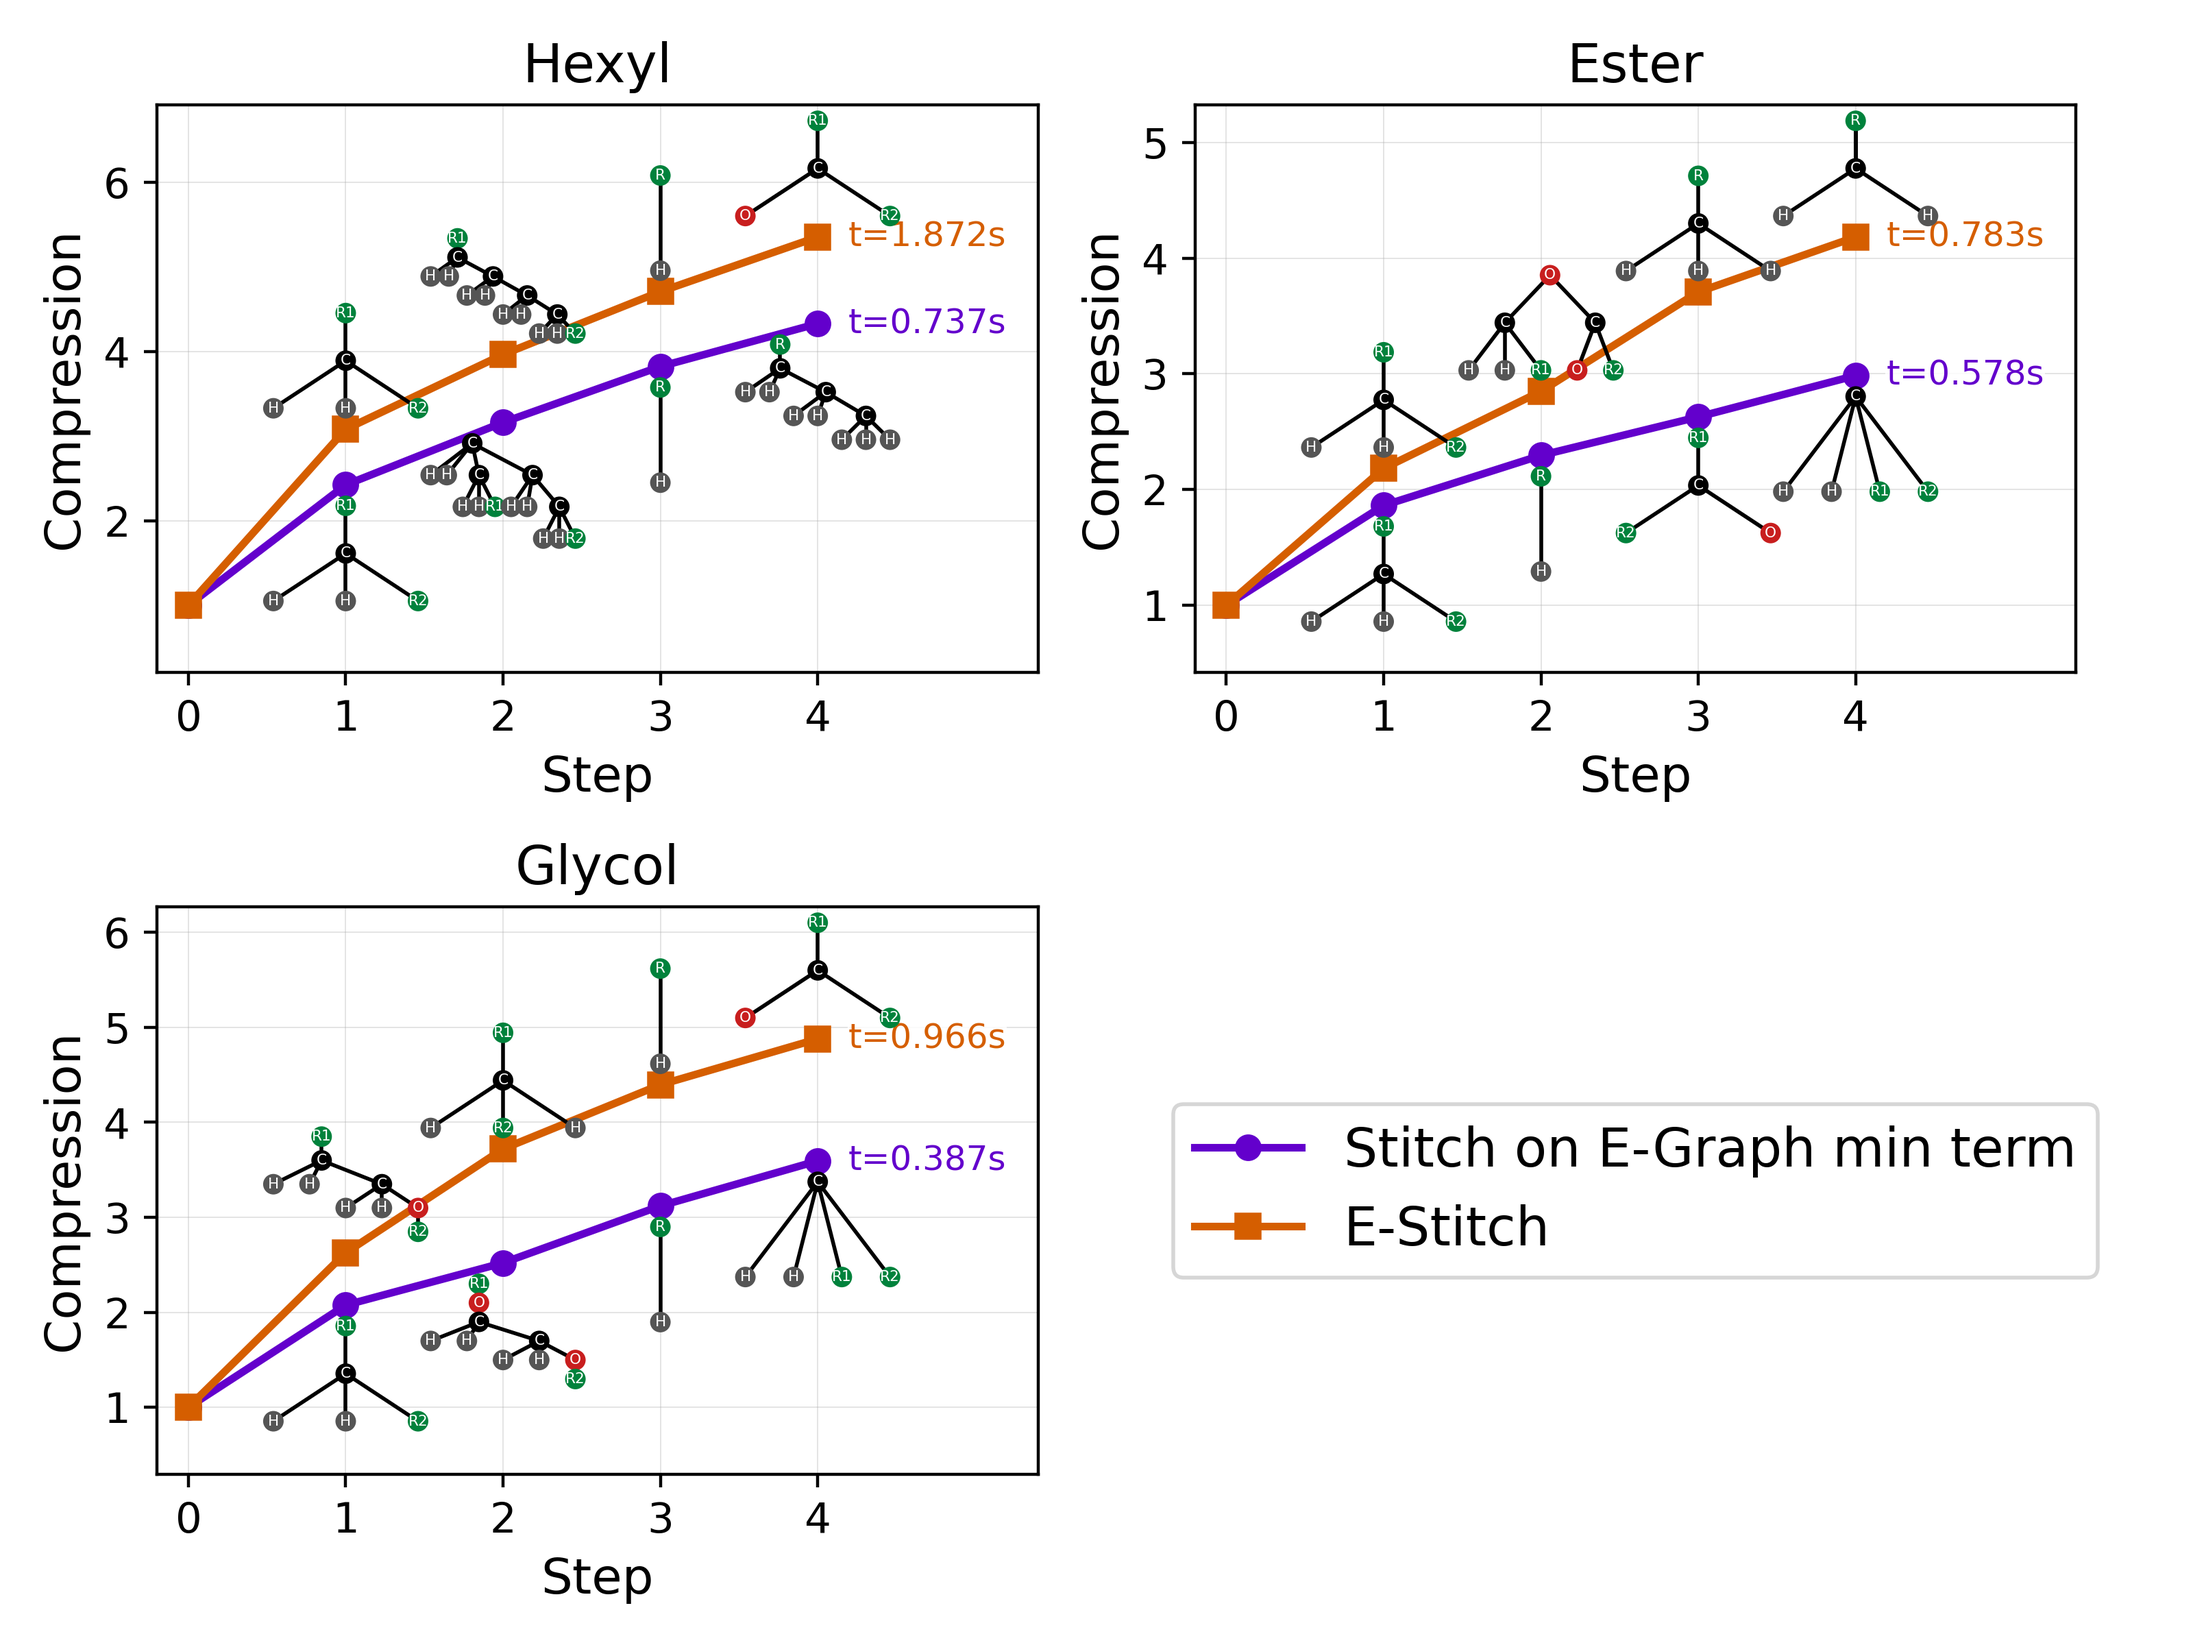
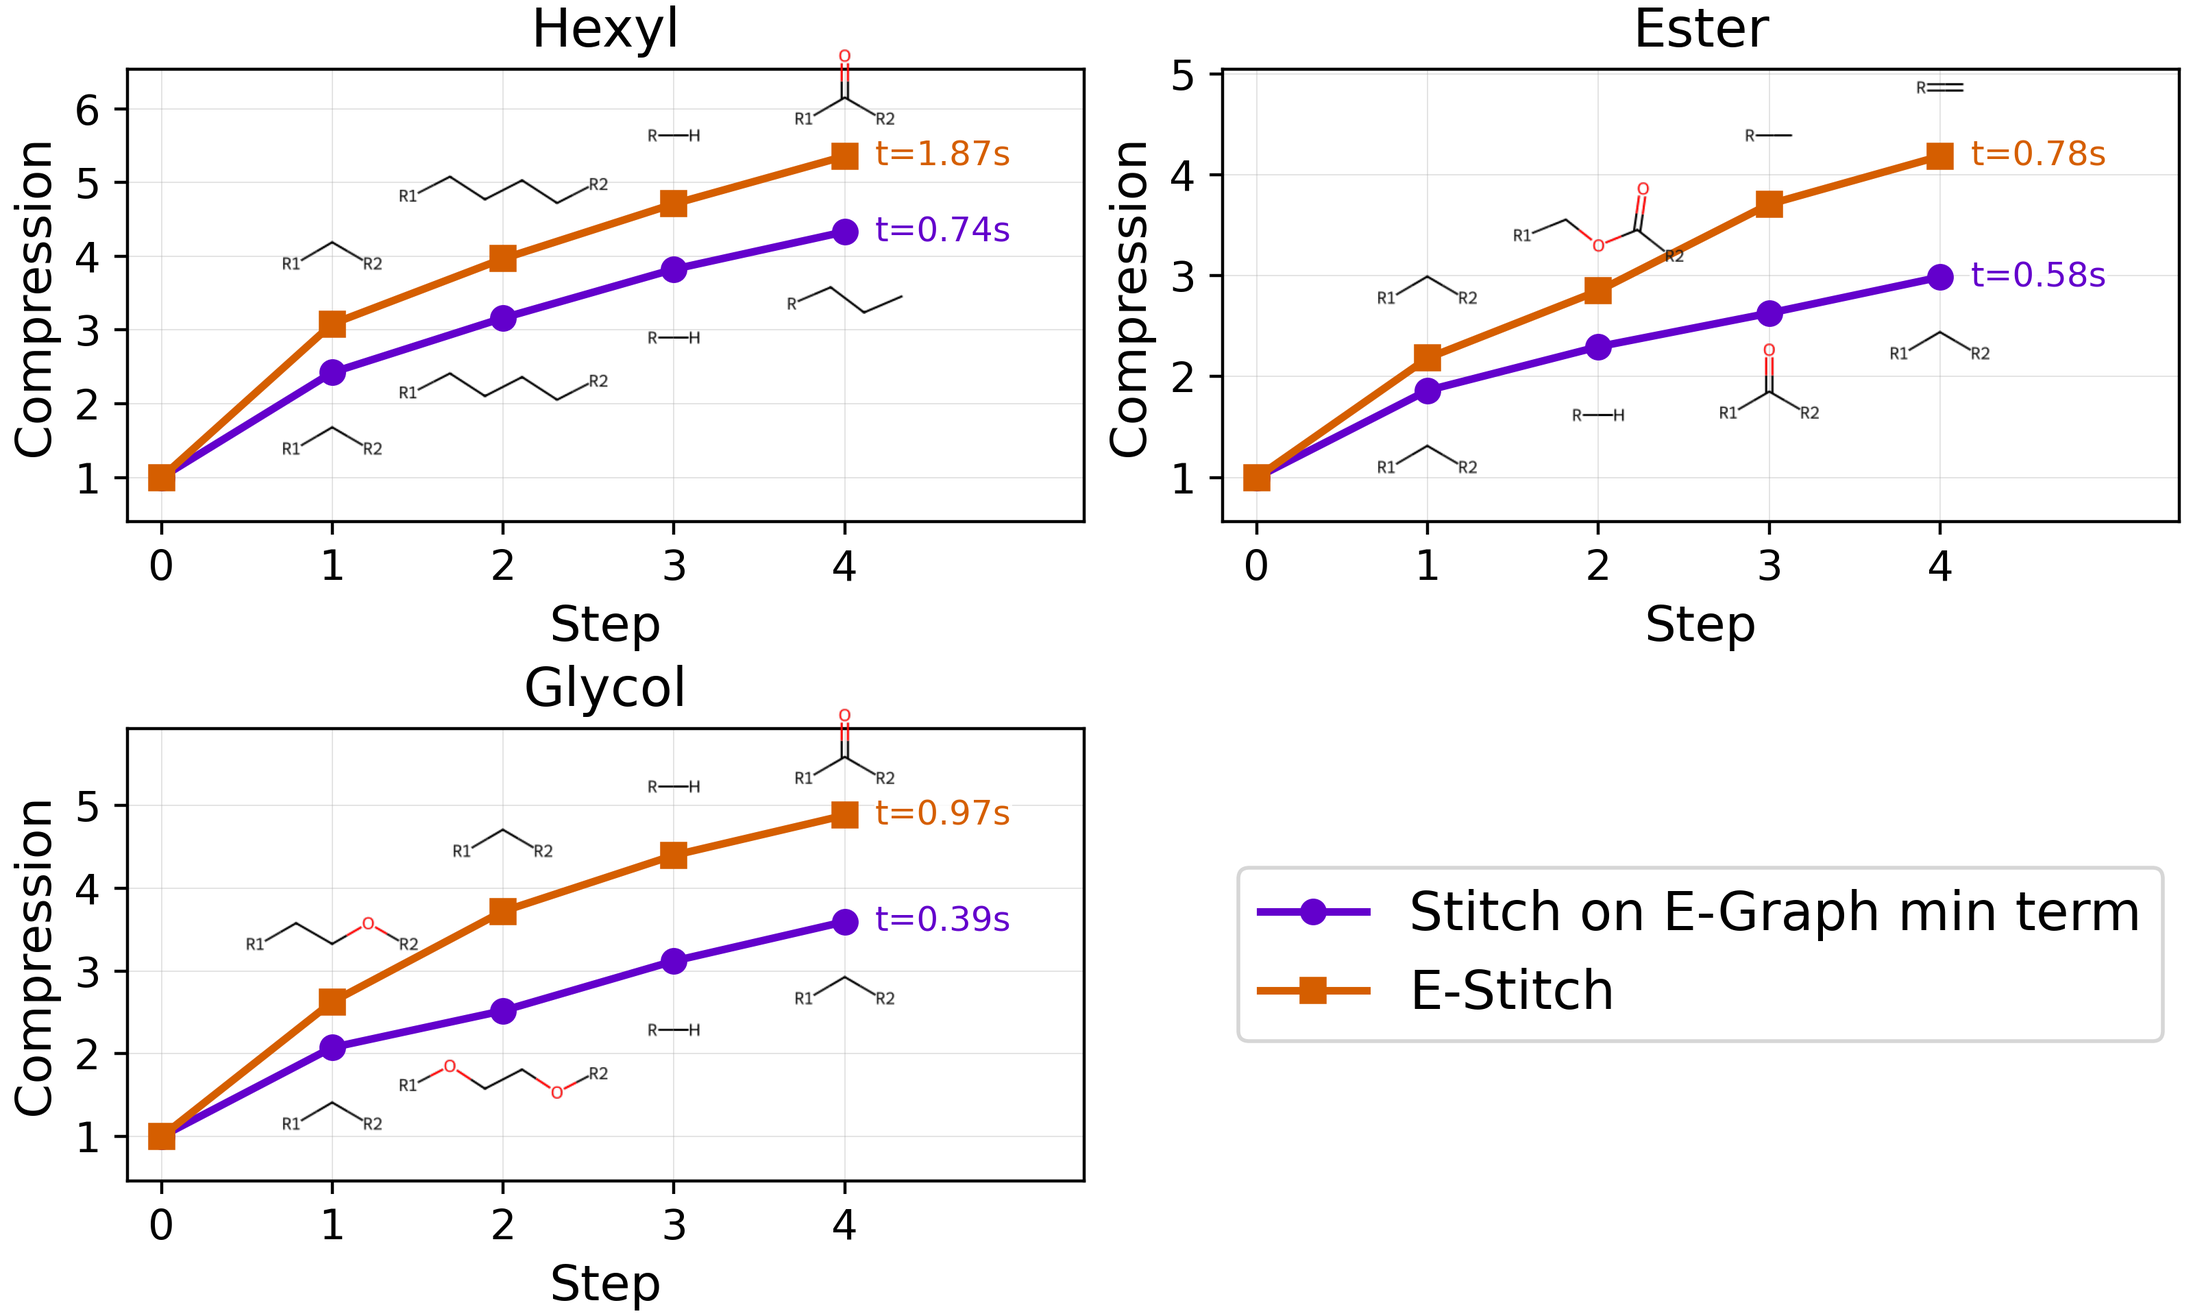
Render molecule diagrams with RDKit skeletal structures
Replace the ad-hoc colored-circle tree in render_molecules.py with real
skeletal chemical structures built via RDKit: each expression node becomes an
atom (R* -> dummy attachment points), d-headed edges become double bonds, and
the molecule is drawn with rdMolDraw2D at a fixed bond length, autocropped, and
placed as an OffsetImage. Carbonyls now show a red O with a C=O double bond,
ethers show O in-chain, and alkyl chains render as clean zig-zag skeletons.

Also tidy the figure: shorter height with tighter row spacing, integer
compression y-ticks, and 2-decimal time callouts.

diff --git a/scripts/render_molecules.py b/scripts/render_molecules.py
@@ -22,7 +22,6 @@ from __future__ import annotations
 
 import argparse
 import json
-import math
 import re
 import sys
 from dataclasses import dataclass
@@ -66,14 +65,10 @@ TICK_FONTSIZE = 11
 LEGEND_FONTSIZE = 14
 TIME_FONTSIZE = 9
 
-ATOM_COLORS = {
-    "C": "#000000",
-    "H": "#555555",
-    "O": "#c81e1e",
-    "R": "#00823c",
-    "R1": "#00823c",
-    "R2": "#00823c",
-}
+# RDKit depiction: keep bond length constant (in px) across molecules so every
+# diagram renders at the same scale, then autocrop and place at a single zoom.
+BOND_LENGTH_PX = 26
+DIAGRAM_ZOOM = 0.28
 
 
 @dataclass(frozen=True)
@@ -201,162 +196,83 @@ def with_implicit_root(node: ExprNode) -> ExprNode:
     return ExprNode(head="m1", label="R", children=(node,))
 
 
-def layout_tree(
-    node: ExprNode,
-) -> tuple[dict[int, tuple[float, float]], dict[int, tuple[int, int]], list[int]]:
-    """Lay out a rooted tree using leaf order on x and depth on y."""
-    positions: dict[int, tuple[float, float]] = {}
-    edges: dict[int, tuple[int, int]] = {}
-    order: list[int] = []
-    leaf_x = 0
+def build_rdkit_mol(node: ExprNode):
+    """Build an RDKit molecule from a parsed expression tree.
 
-    def walk(current: ExprNode, depth: int, parent: ExprNode | None) -> float:
-        nonlocal leaf_x
-        node_id = id(current)
-        order.append(node_id)
-        if not current.children:
-            x = float(leaf_x)
-            leaf_x += 1
+    Each ``ExprNode`` becomes an atom (``R*`` labels become dummy attachment
+    atoms), and the parent link becomes a single or double bond according to the
+    child head (``d`` = double). Explicit ``H`` atoms are added so valences are
+    complete; the depiction later collapses them into the skeletal drawing.
+    """
+    from rdkit import Chem
+
+    mol = Chem.RWMol()
+
+    def add(current: ExprNode, parent_idx: int | None, order: int) -> int:
+        label = current.label
+        if label.startswith("R"):
+            atom = Chem.Atom(0)  # dummy attachment point
+            atom.SetProp("atomLabel", label)
+        elif label == "H":
+            atom = Chem.Atom(1)
+            atom.SetNoImplicit(True)
         else:
-            xs = [walk(child, depth + 1, current) for child in current.children]
-            x = sum(xs) / len(xs)
-        positions[node_id] = (x, -float(depth))
-        if parent is not None:
-            edges[node_id] = (id(parent), bond_order(current.head))
-        return x
+            atom = Chem.Atom(label)
+        idx = mol.AddAtom(atom)
+        if parent_idx is not None:
+            bond = Chem.BondType.DOUBLE if order == 2 else Chem.BondType.SINGLE
+            mol.AddBond(parent_idx, idx, bond)
+        for child in current.children:
+            add(child, idx, bond_order(child.head))
+        return idx
 
-    walk(node, 0, None)
-    return positions, edges, order
-
-
-def normalize_positions(
-    positions: dict[int, tuple[float, float]],
-) -> dict[int, tuple[float, float]]:
-    """Scale a layout into the unit box."""
-    xs = [p[0] for p in positions.values()]
-    ys = [p[1] for p in positions.values()]
-    min_x, max_x = min(xs), max(xs)
-    min_y, max_y = min(ys), max(ys)
-    x_span = max_x - min_x
-    y_span = max_y - min_y
-
-    def place_within(value: float, min_val: float, span: float) -> float:
-        # A vertical/linear fragment collapses to a single column or row.
-        if span == 0:
-            return 0.5
-        return (value - min_val) / span
-
-    return {
-        node_id: (
-            place_within(x, min_x, x_span),
-            place_within(y, min_y, y_span),
-        )
-        for node_id, (x, y) in positions.items()
-    }
+    add(node, None, 1)
+    return mol
 
 
-def add_bond_segments(
-    drawer, p1: tuple[float, float], p2: tuple[float, float], order: int
-) -> None:
-    """Draw one, two, or three parallel bond segments."""
-    from matplotlib.lines import Line2D
-
-    x1, y1 = p1
-    x2, y2 = p2
-    dx = x2 - x1
-    dy = y2 - y1
-    length = math.hypot(dx, dy) or 1.0
-    px = -dy / length
-    py = dx / length
-    offsets = {1: [0.0], 2: [-0.06, 0.06]}[order]
-    for offset in offsets:
-        drawer.add_artist(
-            Line2D(
-                [x1 + px * offset, x2 + px * offset],
-                [y1 + py * offset, y2 + py * offset],
-                color="black",
-                linewidth=1.0 if order == 1 else 0.9,
-                solid_capstyle="round",
-            )
-        )
+def autocrop(image: np.ndarray, margin: int = 2) -> np.ndarray:
+    """Trim fully-transparent borders from an RGBA image, keeping a small margin."""
+    opaque = np.where(image[:, :, 3] > 0)
+    if opaque[0].size == 0:
+        return image
+    y0, y1 = opaque[0].min(), opaque[0].max()
+    x0, x1 = opaque[1].min(), opaque[1].max()
+    h, w = image.shape[:2]
+    y0, x0 = max(y0 - margin, 0), max(x0 - margin, 0)
+    y1, x1 = min(y1 + margin, h - 1), min(x1 + margin, w - 1)
+    return image[y0 : y1 + 1, x0 : x1 + 1]
 
 
 def render_molecule_diagram(entry: ExprNode):
-    """Build a compact molecular diagram for a learned library entry."""
-    from matplotlib.offsetbox import DrawingArea
-    from matplotlib.patches import Circle
-    from matplotlib.text import Text
+    """Build a skeletal molecular diagram for a learned library entry.
+
+    Returns a matplotlib ``OffsetImage`` of the RDKit depiction, cropped to its
+    content and scaled at a shared zoom so every diagram uses the same bond
+    length regardless of molecule size.
+    """
+    from io import BytesIO
+    import matplotlib.image as mpimg
+    from matplotlib.offsetbox import OffsetImage
+    from rdkit import Chem
+    from rdkit.Chem import AllChem
+    from rdkit.Chem.Draw import rdMolDraw2D
 
     node = with_implicit_root(entry).normalize_labels()
-    positions, edges, order = layout_tree(node)
-    positions = normalize_positions(positions)
+    mol = build_rdkit_mol(node).GetMol()
+    Chem.SanitizeMol(mol)
+    mol = Chem.RemoveHs(mol)  # collapse to skeletal form (implicit H on carbons)
+    AllChem.Compute2DCoords(mol)
 
-    width = 46
-    height = 33
-    pad_x = 4
-    pad_y = 4
-    scale_x = width - 2 * pad_x
-    scale_y = height - 2 * pad_y
-    drawer = DrawingArea(width, height, 0, 0)
+    drawer = rdMolDraw2D.MolDraw2DCairo(600, 600)
+    opts = drawer.drawOptions()
+    opts.clearBackground = False  # transparent background
+    opts.fixedBondLength = BOND_LENGTH_PX
+    opts.bondLineWidth = 2
+    rdMolDraw2D.PrepareAndDrawMolecule(drawer, mol)
+    drawer.FinishDrawing()
 
-    for child_id, (parent_id, bond) in edges.items():
-        add_bond_segments(
-            drawer,
-            (
-                pad_x + positions[parent_id][0] * scale_x,
-                pad_y + positions[parent_id][1] * scale_y,
-            ),
-            (
-                pad_x + positions[child_id][0] * scale_x,
-                pad_y + positions[child_id][1] * scale_y,
-            ),
-            bond,
-        )
-
-    for node_id in order:
-        current = None
-        stack = [node]
-        while stack:
-            candidate = stack.pop()
-            if id(candidate) == node_id:
-                current = candidate
-                break
-            stack.extend(candidate.children)
-        if current is None:
-            continue
-
-        x, y = positions[node_id]
-        x = pad_x + x * scale_x
-        y = pad_y + y * scale_y
-        atom_color = ATOM_COLORS[current.label]
-
-        gray = sum(int(atom_color[i : i + 2], 16) for i in (1, 3, 5)) / 3
-        if gray < 128:
-            text = "white"
-        else:
-            text = "black"
-        radius = 2.7
-        drawer.add_artist(
-            Circle(
-                (x, y),
-                radius=radius,
-                facecolor=atom_color,
-                linewidth=1.0,
-            )
-        )
-        drawer.add_artist(
-            Text(
-                x,
-                y,
-                current.label,
-                fontsize=3.9,
-                ha="center",
-                va="center",
-                color=text,
-            )
-        )
-
-    return drawer
+    image = autocrop(mpimg.imread(BytesIO(drawer.GetDrawingText()), format="png"))
+    return OffsetImage(image, zoom=DIAGRAM_ZOOM)
 
 
 def annotate_diagram(ax, x: float, y: float, entry: ExprNode, offset_y: int) -> None:
@@ -458,7 +374,7 @@ def annotate_series(
             annotate_diagram(ax, x, y, label, yoff)
 
     ax.annotate(
-        f"t={time_value:.3f}s",
+        f"t={time_value:.2f}s",
         xy=(xs[-1], ys[-1]),
         xytext=(8, 0),
         textcoords="offset points",
@@ -512,9 +428,12 @@ def plot_domain(ax, saved: dict, domain: str, max_step: int) -> tuple[list, list
     ax.set_xlabel("Step", fontsize=LABEL_FONTSIZE)
     ax.set_ylabel("Compression", fontsize=LABEL_FONTSIZE)
     ax.grid(True, which="both", linewidth=0.35, alpha=0.35)
+    from matplotlib.ticker import MultipleLocator
+
     lo, hi = ax.get_ylim()
     r = hi - lo
-    ax.set_ylim(lo - r * 0.12, hi + r * 0.28)
+    ax.set_ylim(lo - r * 0.08, hi + r * 0.20)
+    ax.yaxis.set_major_locator(MultipleLocator(1))
 
     family = domain.split(":", 1)[1] if ":" in domain else domain
     ax.set_title(family.capitalize(), fontsize=TITLE_FONTSIZE)
@@ -532,7 +451,10 @@ def render_combined(saved: dict, out_path: Path, max_step: int) -> None:
 
     domains = [d for d in TABLE5_DOMAINS if d in saved["domains"]]
 
-    fig, axes = plt.subplots(2, 2, figsize=(8.0, 6.0), tight_layout=True)
+    fig, axes = plt.subplots(
+        2, 2, figsize=(8.0, 4.8), constrained_layout=True
+    )
+    fig.get_layout_engine().set(h_pad=0.02, hspace=0.02)
     flat = list(axes.flatten())
 
     legend_handles: list = []
